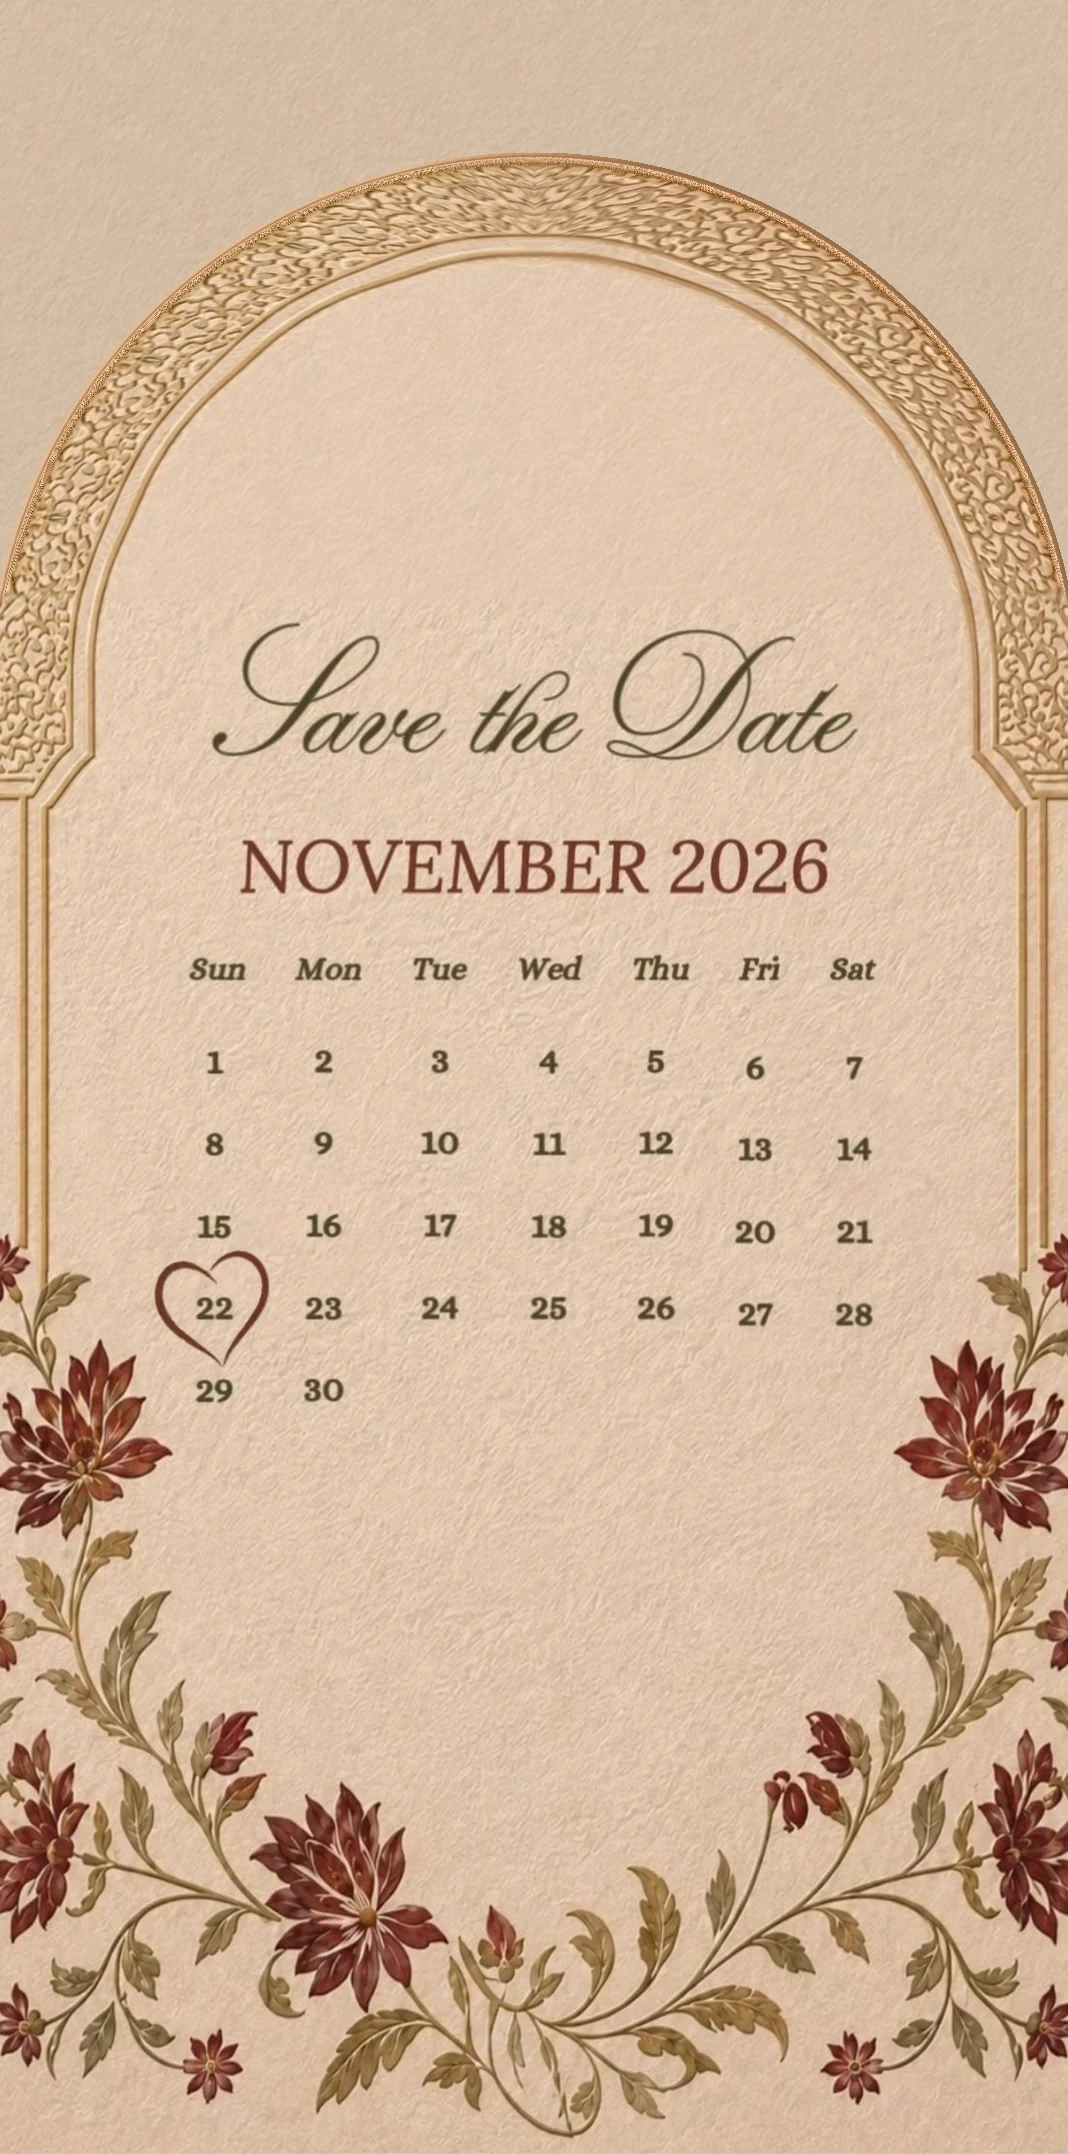
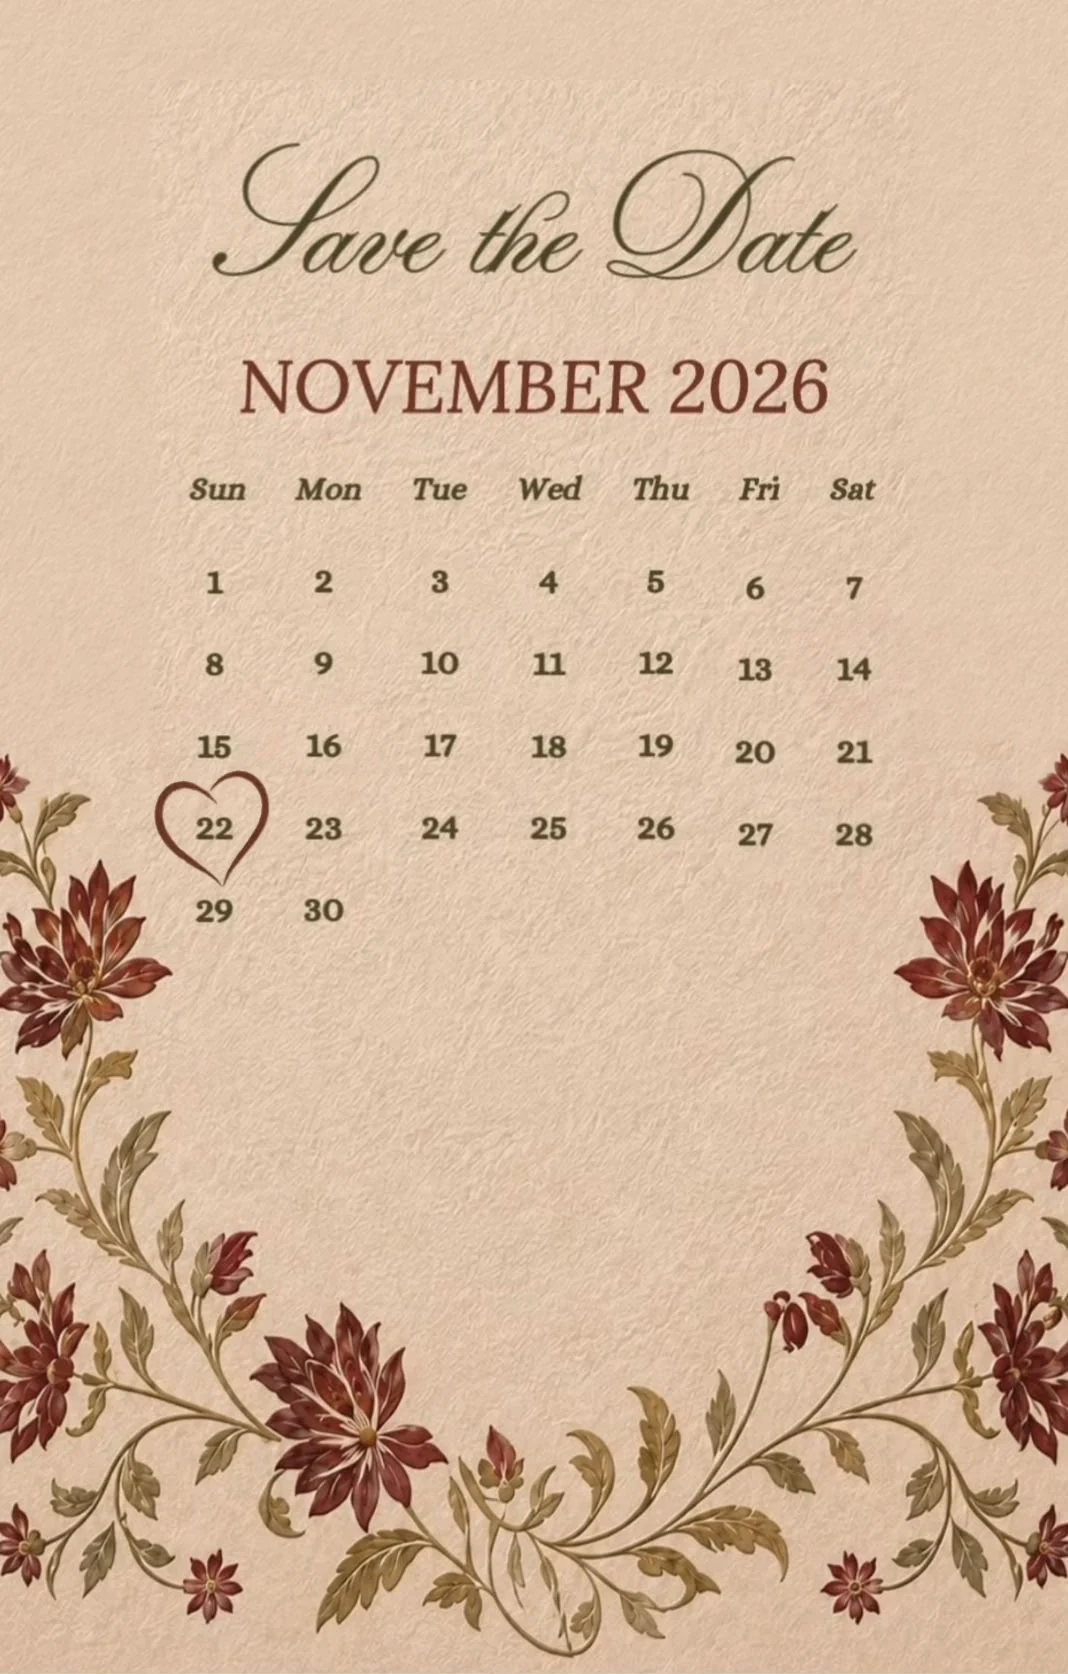
ooW5EFI بطلب المالك: القبة كاملة من غير مسح + بسم الله نازلة + انزل لتحت + Save the Date من غير الجناب + برنامج اليوم تسلسلي لتحت من غير أحمر
Claude-Session: https://claude.ai/code/session_01WWr143PkEpXc8CSVh9AHnN

Changed region(s): [[0.0, 0.0621, 1.0, 0.994], [0.2163, 0.2174, 0.7725, 0.2485], [0.6798, 0.497, 0.7416, 0.6213]]

diff --git a/custom-invitations/ooW5EFI.js b/custom-invitations/ooW5EFI.js
@@ -27,7 +27,7 @@
 const ASSET = '/custom/ooW5EFI/';
 const P1 = ASSET + 'p1.webp', P2 = ASSET + 'p2.webp', PAPER = ASSET + 'paper.webp';
 const FONTS = 'https://fonts.googleapis.com/css2?family=Aref+Ruqaa:wght@400;700&family=Pinyon+Script&family=Cormorant+Garamond:ital,wght@0,500;0,600;1,500&display=swap';
-const W = 705.75, H1 = 1334.2, H2 = 1423.4;
+const W = 705.75, H1 = 1334.2, H2 = 1106.2;
 const MAP_LINK = 'https://goo.gl/maps/KCMpenYcVXjCKwgHA';
 const MAP_EMBED = 'https://www.google.com/maps?q=' + encodeURIComponent('قصر الأمير محمد علي بالمنيل، 1 السرايا، المنيل الشرقي، مصر القديمة، القاهرة') + '&z=16&output=embed';
 
@@ -47,26 +47,26 @@ const CSS = `
 .oo-p,.oo-sx{position:absolute;left:0;top:0;width:${W}px;transform:scale(var(--ok,.5));transform-origin:0 0}
 .oo-p{background-size:100% 100%;background-repeat:no-repeat}
 .oo-p1{height:${H1}px;background-image:url(${P1})}
-.oo-p2{height:${H2}px;background-image:url(${P2});-webkit-mask-image:linear-gradient(transparent 0,#000 24px);mask-image:linear-gradient(transparent 0,#000 24px)}
+.oo-p2{height:${H2}px;background-image:url(${P2});-webkit-mask-image:linear-gradient(transparent 0,#000 30px,#000 calc(100% - 90px),transparent);mask-image:linear-gradient(transparent 0,#000 30px,#000 calc(100% - 90px),transparent)}
 
 /* ===== صورة 1: الكلام ===== */
 .oo-p1 > p{position:absolute;margin:0;text-align:center;direction:rtl;letter-spacing:0;font-family:'Aref Ruqaa','Amiri',serif;
   text-shadow:0 1px 0 rgba(255,250,240,.35)}
 .oo-p1 .oo-wide{left:${W / 2 - 230}px;width:460px}
 .oo-p1 .oo-narrow{left:${W / 2 - 128}px;width:256px}
-.oo-p1 .oo1{top:187px;font-size:44px;line-height:1.6;color:#a2717a}
-.oo-p1 .oo2{top:276px;font-size:50px;font-weight:700;line-height:1.7;color:#54462a}
-.oo-p1 .oo-orn{position:absolute;left:${W / 2 - 70}px;width:140px;top:384px;height:12px;display:flex;align-items:center;justify-content:center;gap:9px}
+.oo-p1 .oo1{top:257px;font-size:44px;line-height:1.6;color:#a2717a}
+.oo-p1 .oo2{top:346px;font-size:50px;font-weight:700;line-height:1.7;color:#54462a}
+.oo-p1 .oo-orn{position:absolute;left:${W / 2 - 70}px;width:140px;top:${384 + 70}px;height:12px;display:flex;align-items:center;justify-content:center;gap:9px}
 .oo-orn i{flex:1;height:1px;background:linear-gradient(90deg,transparent,#b39566)}
 .oo-orn i:last-child{transform:scaleX(-1)}
 .oo-orn b{width:7px;height:7px;border:1px solid #b39566;transform:rotate(45deg)}
-.oo-p1 .oo10{top:414px;font-size:30px;line-height:1.6;color:#6a5434}
-.oo-p1 .oo11{top:466px;font-size:30px;font-weight:700;line-height:1.55;color:#54462a}
-.oo-p1 .oo16{top:513px;font-size:30px;font-weight:700;line-height:1.55;color:#54462a}
-.oo-p1 .oo12{top:578px;font-size:30px;line-height:1.6;color:#6a5434}
-.oo-p1 .oo13{top:650px;font-size:70px;font-weight:700;line-height:1.45;color:#8a3a3c}
-.oo-p1 .oo14{top:752px;font-size:42px;line-height:1.3;color:#b08d57}
-.oo-p1 .oo15{top:800px;font-size:70px;font-weight:700;line-height:1.45;color:#8a3a3c}
+.oo-p1 .oo10{top:484px;font-size:30px;line-height:1.6;color:#6a5434}
+.oo-p1 .oo11{top:536px;font-size:30px;font-weight:700;line-height:1.55;color:#54462a}
+.oo-p1 .oo16{top:583px;font-size:30px;font-weight:700;line-height:1.55;color:#54462a}
+.oo-p1 .oo12{top:648px;font-size:30px;line-height:1.6;color:#6a5434}
+.oo-p1 .oo13{top:720px;font-size:70px;font-weight:700;line-height:1.45;color:#8a3a3c}
+.oo-p1 .oo14{top:822px;font-size:42px;line-height:1.3;color:#b08d57}
+.oo-p1 .oo15{top:870px;font-size:70px;font-weight:700;line-height:1.45;color:#8a3a3c}
 
 /* دخول كلام الصورة الأولى بعد ما الظرف ينزل */
 #oo-scroll .oo-rv{opacity:0;transform:translateY(16px);filter:blur(6px);transition:opacity 1s ease,transform 1.1s cubic-bezier(.2,.7,.2,1),filter 1s ease;transition-delay:calc(var(--d,0) * 130ms + 250ms)}
@@ -108,24 +108,29 @@ const CSS = `
 .oo-btn svg{width:26px;height:26px;color:#f1d9a8}
 
 /* --- برنامج اليوم: كروت برجندي بتتقلب واحد ورا التاني --- */
-.oo-cards{display:grid;grid-template-columns:1fr 1fr;gap:26px;margin:36px auto 0;width:600px;perspective:1400px}
-.oo-card{position:relative;height:270px;border-radius:22px;padding:26px 18px 22px;color:#f6e7c8;
-  background:radial-gradient(120% 90% at 30% 0%,#a4474b 0%,#7d2c30 55%,#5e1d22 100%);
-  box-shadow:0 22px 34px -20px rgba(70,20,20,.75),inset 0 1px 0 rgba(255,255,255,.12);
-  transform-origin:50% 50%;transform:rotateY(-95deg) translateZ(0);opacity:0;backface-visibility:hidden;
-  transition:transform 1.15s cubic-bezier(.2,.8,.2,1.05),opacity .4s ease;transition-delay:calc(var(--d,0) * 230ms)}
-.oo-card::before{content:"";position:absolute;inset:9px;border-radius:15px;border:1.5px solid rgba(225,190,120,.75)}
-.oo-card::after{content:"";position:absolute;inset:15px;border-radius:11px;border:1px solid rgba(225,190,120,.3)}
-.oo-cards.oo-vis .oo-card{transform:none;opacity:1}
-.oo-ci{display:block;width:54px;height:54px;margin:2px auto 8px;color:#e4c487}
-.oo-ci svg{width:100%;height:100%}
-.oo-ct{display:block;font-size:56px;font-weight:700;line-height:1.15;color:#f1d39a;text-shadow:0 2px 0 rgba(60,10,10,.35)}
-.oo-cl{display:block;margin-top:8px;font-size:30px;line-height:1.35;color:#f8ead0}
-.oo-cn{position:absolute;top:22px;inset-inline-start:26px;font-family:'Cormorant Garamond',serif;font-style:italic;font-size:22px;color:rgba(241,211,154,.6);direction:ltr}
-.oo-card .oo-shine{position:absolute;inset:0;border-radius:22px;overflow:hidden;pointer-events:none}
-.oo-card .oo-shine::after{content:"";position:absolute;top:-30%;bottom:-30%;width:40%;left:-70%;transform:skewX(-20deg);background:linear-gradient(90deg,transparent,rgba(255,235,190,.32),transparent)}
-.oo-cards.oo-vis .oo-shine::after{animation:ooSheen 1.5s ease-in-out both;animation-delay:calc(var(--d,0) * 230ms + 900ms)}
-@keyframes ooSheen{to{left:140%}}
+/* --- برنامج اليوم: تسلسلي لتحت (دهبي وزيتي، من غير أحمر) --- */
+.oo-prog .oo-h{color:#54462a}
+.oo-steps{position:relative;margin:30px auto 0;width:520px}
+.oo-step{position:relative;display:flex;flex-direction:column;align-items:center;padding-bottom:22px}
+.oo-step + .oo-step{padding-top:96px}
+/* الخط اللي بيوصل بين كل ميعاد واللي بعده — بيترسم لتحت لما يظهر */
+.oo-step + .oo-step::before{content:"";position:absolute;left:50%;top:4px;width:2px;height:80px;margin-left:-1px;
+  background:repeating-linear-gradient(#b39566 0 6px,transparent 6px 12px);transform-origin:50% 0;transform:scaleY(0);transition:transform .9s cubic-bezier(.4,0,.2,1) var(--sd,0ms)}
+.oo-step + .oo-step::after{content:"";position:absolute;left:50%;top:84px;width:8px;height:8px;margin-left:-4px;border:1.5px solid #b39566;transform:rotate(45deg) scale(0);transition:transform .5s ease calc(var(--sd,0ms) + .7s)}
+.oo-step.oo-vis::before{transform:scaleY(1)}
+.oo-step.oo-vis::after{transform:rotate(45deg) scale(1)}
+.oo-ring{position:relative;width:96px;height:96px;border-radius:50%;display:grid;place-items:center;color:#8a6a32;
+  background:radial-gradient(circle at 35% 30%,#fbf3e3,#efdfc2);box-shadow:0 0 0 1.5px #c9a46a,0 0 0 7px rgba(201,164,106,.14),0 14px 24px -14px rgba(90,60,20,.55);
+  transform:scale(.5);opacity:0;transition:transform .8s cubic-bezier(.3,1.5,.5,1) calc(var(--sd,0ms) + .35s),opacity .5s ease calc(var(--sd,0ms) + .35s)}
+.oo-ring svg{width:46px;height:46px}
+.oo-ring::after{content:"";position:absolute;inset:-12px;border-radius:50%;border:1.5px solid rgba(201,164,106,.7);opacity:0}
+.oo-step.oo-vis .oo-ring{transform:none;opacity:1}
+.oo-step.oo-vis .oo-ring::after{animation:ooRing 1.4s ease-out calc(var(--sd,0ms) + .8s) 1 both}
+@keyframes ooRing{0%{transform:scale(.75);opacity:1}100%{transform:scale(1.45);opacity:0}}
+.oo-stime{display:block;margin-top:18px;font-size:50px;font-weight:700;line-height:1.15;color:#54462a;opacity:0;transform:translateY(18px);transition:opacity .8s ease calc(var(--sd,0ms) + .6s),transform .9s cubic-bezier(.2,.7,.2,1) calc(var(--sd,0ms) + .6s)}
+.oo-slab{display:block;margin-top:4px;font-size:32px;line-height:1.4;color:#8a6a32;opacity:0;transform:translateY(18px);transition:opacity .8s ease calc(var(--sd,0ms) + .75s),transform .9s cubic-bezier(.2,.7,.2,1) calc(var(--sd,0ms) + .75s)}
+.oo-step.oo-vis .oo-stime,.oo-step.oo-vis .oo-slab{opacity:1;transform:none}
+#oo-scroll.oo-now .oo-step::before,#oo-scroll.oo-now .oo-step::after,#oo-scroll.oo-now .oo-step *{transition:none!important;animation:none!important}
 
 /* --- الدريس كود: دواير ألوان --- */
 .oo-grp{display:flex;align-items:center;justify-content:center;gap:14px;margin:34px 0 20px;font-size:32px;line-height:1.4;color:#6a5434}
@@ -138,6 +143,7 @@ const CSS = `
   box-shadow:0 0 0 3px #f6ead6,0 0 0 4.5px #c9a46a,0 14px 22px -12px rgba(50,25,10,.7),inset 0 -10px 18px rgba(0,0,0,.18),inset 0 8px 14px rgba(255,255,255,.12)}
 .oo-dot::after{content:"";position:absolute;top:-20%;bottom:-20%;width:45%;left:-70%;transform:skewX(-18deg);background:linear-gradient(90deg,transparent,rgba(255,255,255,.35),transparent)}
 .oo-sws.oo-vis .oo-dot::after{animation:ooSheen 1.4s ease-in-out both;animation-delay:calc(var(--d,0) * 150ms + 700ms)}
+@keyframes ooSheen{to{left:140%}}
 .oo-swe{display:block;margin-top:16px;font-family:'Cormorant Garamond',serif;font-weight:600;font-size:26px;line-height:1.2;color:#54462a;direction:ltr;letter-spacing:.04em}
 .oo-end{margin-top:56px}
 
@@ -201,15 +207,13 @@ textarea.oo-fld{resize:none;min-height:84px}
 .oo-voice.sent .oo-vok{display:block}.oo-voice.sent .oo-vprev,.oo-voice.sent .oo-fld,.oo-voice.sent .oo-send{display:none}
 .oo-voice.sent .oo-mic,.oo-voice.sent .oo-vhint{display:none}
 
-/* "مرّر للأسفل" — بيختفي أول ما الضيف ينزل */
-.oo-cue{position:absolute;z-index:26;margin:0;padding:0;border:0;background:none;-webkit-appearance:none;appearance:none;font:inherit;left:50%;bottom:calc(16px + env(safe-area-inset-bottom));transform:translate(-50%,10px);
-  display:flex;flex-direction:column;align-items:center;gap:4px;opacity:0;pointer-events:none;direction:rtl;
-  transition:opacity .6s ease,transform .6s ease}
-.oo-cue span{padding:7px 18px 8px;border-radius:999px;background:linear-gradient(180deg,#fbf6f0,#efe3d8);border:1px solid rgba(180,150,110,.6);
-  box-shadow:0 8px 20px rgba(60,40,20,.25);font:400 15px/1 'Aref Ruqaa','Amiri',serif;color:#5b2229}
-.oo-cue svg{width:20px;height:20px;color:#7a6040;animation:ooNudge 1.8s ease-in-out infinite}
-@keyframes ooNudge{0%,100%{transform:translateY(-2px);opacity:.6}50%{transform:translateY(4px);opacity:1}}
-.stage.opened .oo-cue.on{opacity:1;transform:translate(-50%,0);pointer-events:auto;cursor:pointer}
+/* "انزل لتحت" — جوه الصورة الأولى تحت الأسامي، ثابتة */
+.oo-p1 .oo-down{position:absolute;left:${W / 2 - 150}px;top:1072px;width:300px;margin:0;padding:0;border:0;background:none;cursor:pointer;
+  display:flex;flex-direction:column;align-items:center;gap:6px;direction:rtl;-webkit-appearance:none;appearance:none}
+.oo-down b{font:700 34px/1.2 'Aref Ruqaa','Amiri',serif;color:#54462a;text-shadow:0 1px 0 rgba(255,250,240,.5)}
+.oo-down small{font:italic 500 24px/1 'Cormorant Garamond',serif;color:#8a6a32;letter-spacing:.12em;direction:ltr}
+.oo-down svg{width:42px;height:42px;color:#a8803f;animation:ooNudge 1.8s ease-in-out infinite}
+@keyframes ooNudge{0%,100%{transform:translateY(-4px);opacity:.55}50%{transform:translateY(8px);opacity:1}}
 
 /* الظرف: الختم بيطير والظرف كله بينزل لتحت (زي Sage Garden) — بدل ما يتفتح */
 .intro.oo-drop{cursor:default}
@@ -221,7 +225,7 @@ textarea.oo-fld{resize:none;min-height:84px}
 .intro.oo-drop .tap{opacity:0;transform:translateY(16px)}
 .intro.oo-drop .dust{opacity:0;transition:opacity .6s ease}
 .intro.oo-gone{opacity:0;transition:opacity .55s ease;pointer-events:none}
-@media (prefers-reduced-motion:reduce){#oo-scroll .oo-rv,.oo-a,.oo-sw,.oo-card{transition:none}.oo-cue svg,.oo-dot::after,.oo-shine::after,.oo-mic::before,.oo-mic::after{animation:none}}
+@media (prefers-reduced-motion:reduce){#oo-scroll .oo-rv,.oo-a,.oo-sw,.oo-step,.oo-step *,.oo-step::before{transition:none}.oo-down svg,.oo-dot::after,.oo-ring::after,.oo-mic::before,.oo-mic::after{animation:none}}
 `;
 
 const ICON = {
@@ -243,10 +247,10 @@ const P = (cls, id, d, text) => `<p class="${cls} oo${id} oo-rv" style="--d:${d}
 const T = (tag, cls, id, text, d) => `<${tag} class="${cls} oo-a" style="--d:${d || 0}" data-elem-id="oo${id}">${text}</${tag}>`;
 
 const PROGRAM = [
-  ['r', 'rings', 30, '٣:٣٠', 31, 'بدء الحفل'],
-  ['l', 'dine', 32, '٦:٠٠', 33, 'الغداء'],
-  ['r', 'music', 34, '٧:٠٠', 35, 'متابعة الحفل'],
-  ['l', 'moon', 36, '٨:٠٠', 37, 'نهاية الحفل'],
+  ['r', 'rings', 30, '٣:٣٠ م', 31, 'بدء الحفل'],
+  ['l', 'dine', 32, '٦:٠٠ م', 33, 'الغداء'],
+  ['r', 'music', 34, '٧:٠٠ م', 35, 'متابعة الحفل'],
+  ['l', 'moon', 36, '٨:٠٠ م', 37, 'نهاية الحفل'],
 ];
 const LADIES = [
   ['#6b1d29', 43, 'Burgundy'],
@@ -277,8 +281,8 @@ const SECTIONS = `<div class="oo-w oo-w3" id="oo-w3"><div class="oo-sx" id="oo-s
         <div class="oo-orn2 oo-a" aria-hidden="true"><i></i><b></b><i></i></div>
         ${T('p', 'oo-script', 24, 'The Program', 0)}
         ${T('h2', 'oo-h', 25, 'برنامج اليوم', 1)}
-        <div class="oo-cards oo-a4" id="oo-cards">
-          ${PROGRAM.map(([side, ic, t1, time, t2, label], i) => `<div class="oo-card" style="--d:${i}"><span class="oo-shine"></span><span class="oo-cn">0${i + 1}</span><span class="oo-ci">${ICON[ic]}</span><b class="oo-ct" data-elem-id="oo${t1}">${time}</b><span class="oo-cl" data-elem-id="oo${t2}">${label}</span></div>`).join('\n          ')}
+        <div class="oo-steps" id="oo-steps">
+          ${PROGRAM.map(([side, ic, t1, time, t2, label], i) => `<div class="oo-step oo-a4" style="--sd:${i * 450}ms"><span class="oo-ring">${ICON[ic]}</span><b class="oo-stime" data-elem-id="oo${t1}">${time}</b><span class="oo-slab" data-elem-id="oo${t2}">${label}</span></div>`).join('\n          ')}
         </div>
       </section>
       <section class="oo-s oo-dress">
@@ -337,18 +341,18 @@ const SCROLL = `<div id="oo-scroll" aria-label="الدعوة">
       ${P('oo-narrow', 13, 9.5, 'ابراهيم')}
       ${P('oo-narrow', 14, 10.5, 'و')}
       ${P('oo-narrow', 15, 11.5, 'فرح')}
+      <button class="oo-down oo-rv" style="--d:13" type="button" id="oo-down" aria-label="انزل لتحت"><b data-elem-id="oo17">انزل لتحت</b><small data-elem-id="oo18">Scroll down</small><svg viewBox="0 0 24 24" fill="none" stroke="currentColor" stroke-width="1.5" stroke-linecap="round" stroke-linejoin="round"><path d="M6 8l6 6 6-6"/><path d="M8.5 4.5 12 8l3.5-3.5" opacity=".55"/></svg></button>
     </div></div>
     <div class="oo-w oo-w2"><div class="oo-p oo-p2" role="img" aria-label="Save the Date — 22 نوفمبر 2026"></div></div>
     ${SECTIONS}
     ${RSVP}
   </div>
-  <button class="oo-cue" id="oo-cue" type="button" aria-label="انزل لتحت"><span>مرّر للأسفل</span><svg viewBox="0 0 24 24" fill="none" stroke="currentColor" stroke-width="1.7" stroke-linecap="round" stroke-linejoin="round"><path d="M6 8l6 6 6-6"/><path d="M8.5 4.5 12 8l3.5-3.5" opacity=".55"/></svg></button>
   `;
 
 // بيتحط جوه سكريبت القالب (قبل "start") — فبيوصل لـ stage / intro / opened ...
 const LOGIC = `
   /* ---------- ooW5EFI: صفحة واحدة بالسكرول + الظرف بينزل بدل ما يتفتح ---------- */
-  const ooS = document.getElementById('oo-scroll'), ooCue = document.getElementById('oo-cue');
+  const ooS = document.getElementById('oo-scroll');
   const ooW3 = document.getElementById('oo-w3'), ooSx = document.getElementById('oo-sx');
   stage.classList.add('oo-mode');
   function ooFit() {
@@ -360,16 +364,13 @@ const LOGIC = `
   ooFit(); addEventListener('resize', ooFit); addEventListener('orientationchange', () => setTimeout(ooFit, 200));
   if (window.ResizeObserver) new ResizeObserver(ooFit).observe(ooSx);
   if (document.fonts && document.fonts.ready) document.fonts.ready.then(ooFit);
-  let ooCueOff = false;
-  function ooCueHide() { if (ooCueOff) return; ooCueOff = true; ooCue.classList.remove('on'); }
-  ooCue.addEventListener('click', e => { e.stopPropagation(); ooS.scrollBy({ top: ooS.clientHeight * 0.85, behavior: 'smooth' }); ooCueHide(); });
+  document.getElementById('oo-down').addEventListener('click', e => { e.stopPropagation(); if (EDIT) return; ooS.scrollTo({ top: document.querySelector('.oo-w2').offsetTop - 10, behavior: 'smooth' }); });
   // الأجزاء اللي تحت: بتظهر لما توصلها، والخريطة بتتحمّل قبلها بشوية
   const ooAll = [...ooS.querySelectorAll('.oo-a, .oo-a4')];
   const ooMap = ooS.querySelector('.oo-mapin iframe');
   function ooMapLoad() { if (!ooMap.getAttribute('src')) ooMap.setAttribute('src', ooMap.dataset.ooSrc); }
   function ooScan() {
     const h = ooS.clientHeight, top = ooS.getBoundingClientRect().top;
-    if (ooS.scrollTop > 40) ooCueHide();
     ooAll.forEach(el => { if (!el.classList.contains('oo-vis') && el.getBoundingClientRect().top - top < h * 0.86) el.classList.add('oo-vis'); });
     if (ooMap.getBoundingClientRect().top - top < h * 2.2) ooMapLoad();
   }
@@ -383,7 +384,6 @@ const LOGIC = `
     }
     ooS.classList.add('oo-in');
     ooFit(); setTimeout(ooScan, 50);
-    if (!EDIT) setTimeout(() => { if (!ooCueOff && ooS.scrollTop < 40) ooCue.classList.add('on'); }, now ? 600 : 2600);
   }
   /* تأكيد الحضور — نفس طريقة القالب بالظبط (بيوصل للوحة صاحب الدعوة) */
   {
